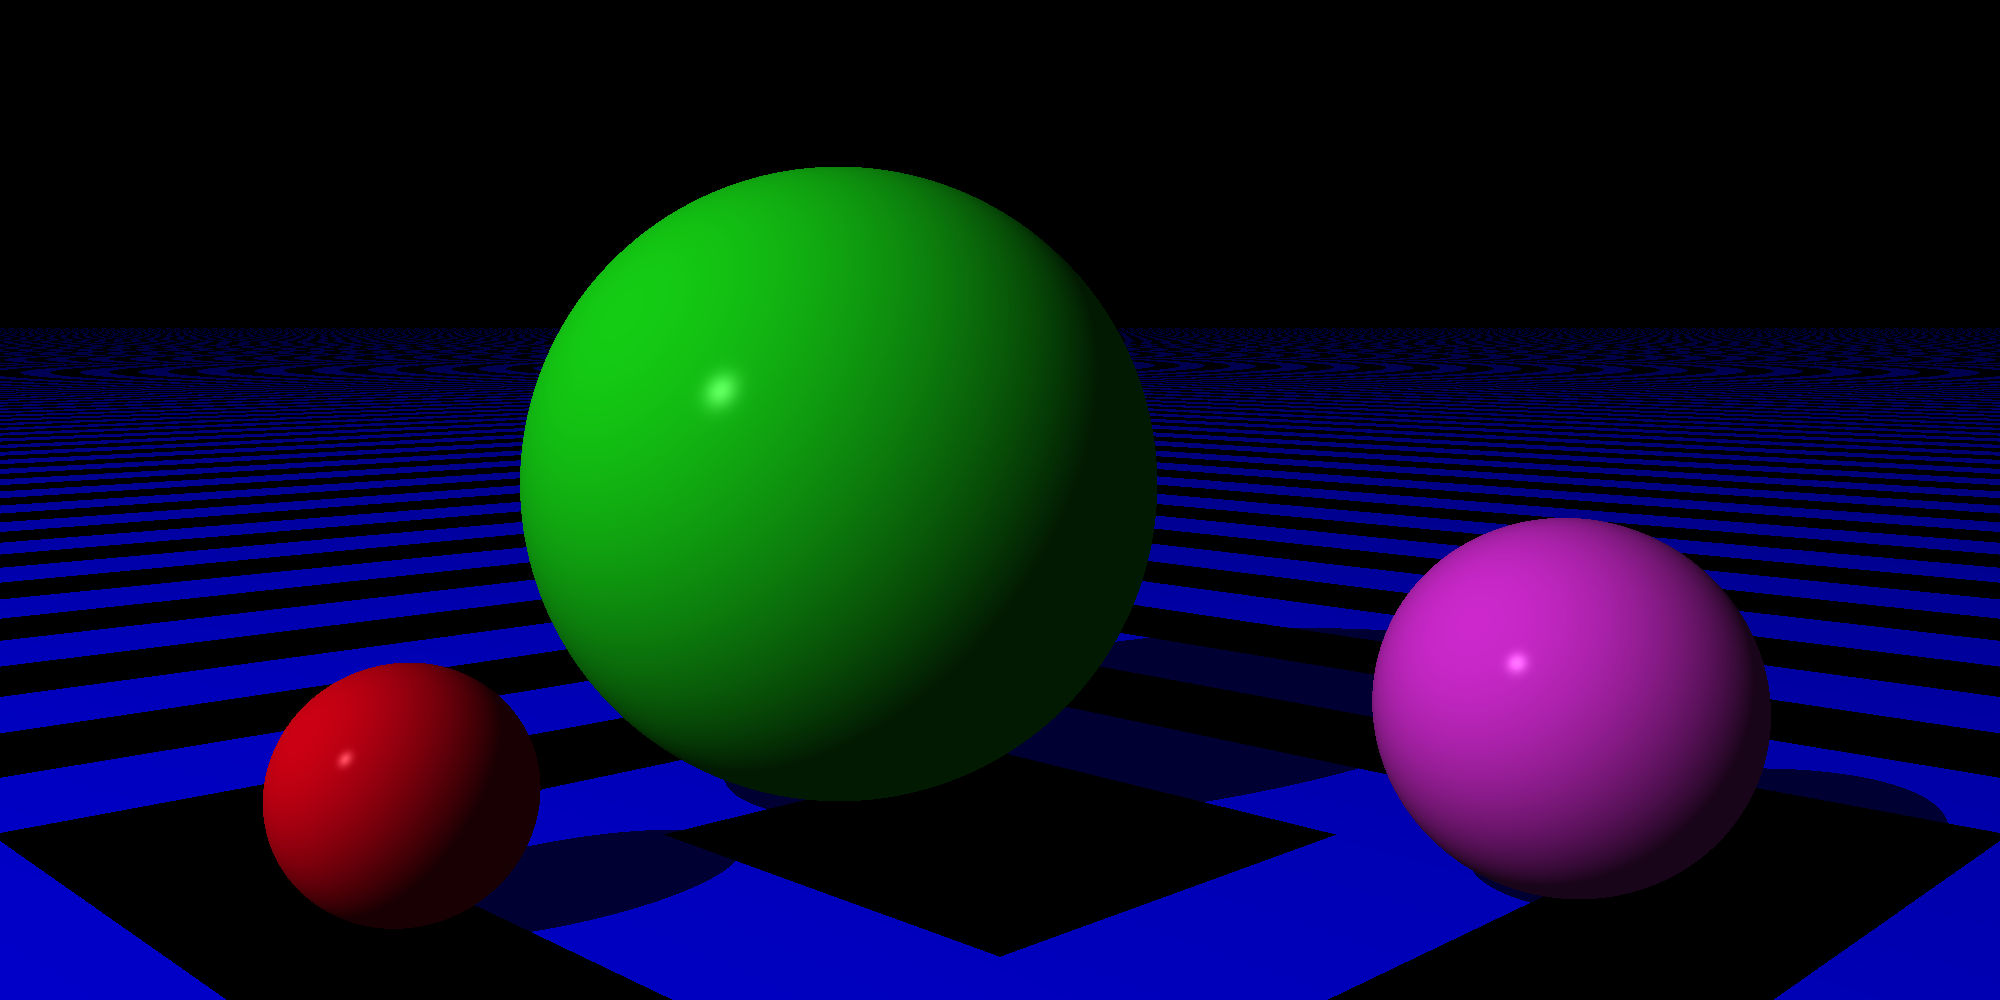
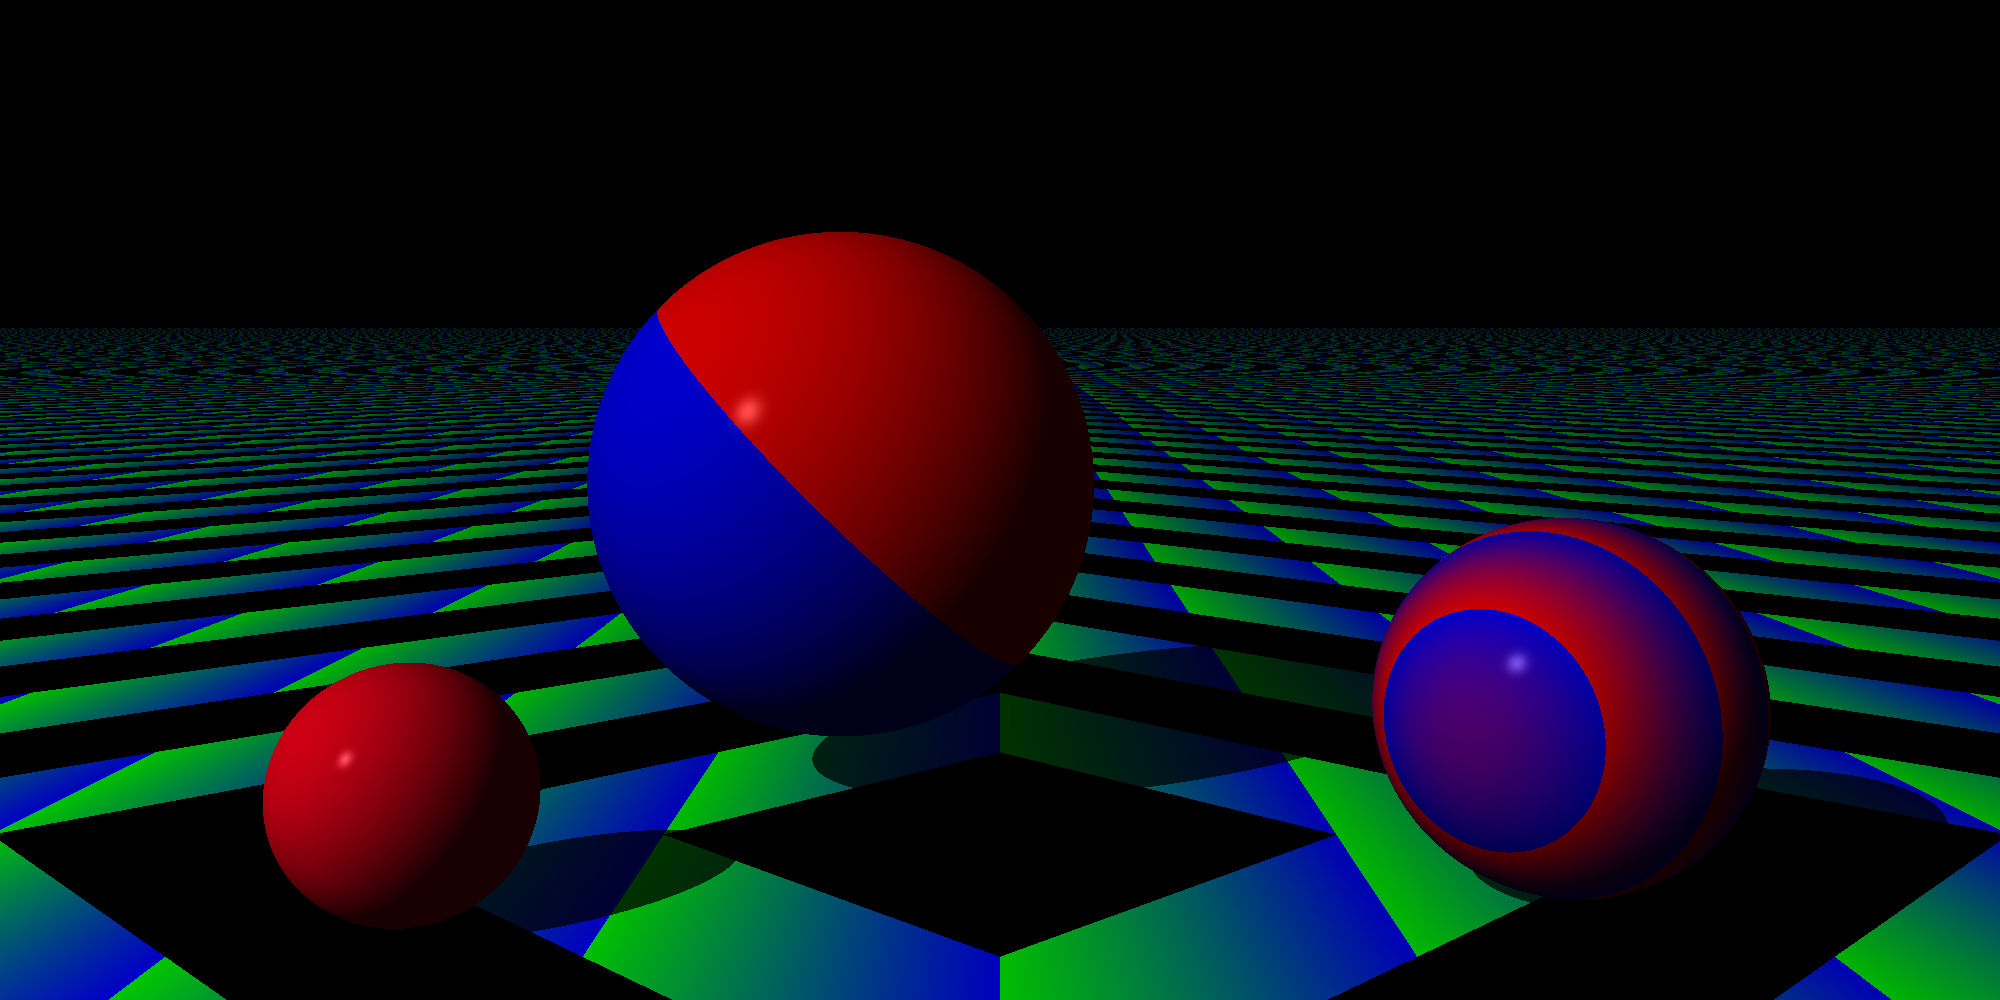
Modify patterns to support nested patterns

diff --git a/pattern_test.go b/pattern_test.go
@@ -7,15 +7,15 @@ import (
 )
 
 func TestCreateStripePattern(t *testing.T) {
-	pattern := NewStripePattern(white, black)
+	pattern := NewStripePattern(NewSolidPattern(white), NewSolidPattern(black))
 
-	assert.Equal(t, white, pattern.a)
-	assert.Equal(t, black, pattern.b)
+	assert.Equal(t, NewSolidPattern(white), pattern.a)
+	assert.Equal(t, NewSolidPattern(black), pattern.b)
 }
 
 func TestStripePatternConstantY(t *testing.T) {
 	object := NewSphere()
-	pattern := NewStripePattern(white, black)
+	pattern := NewStripePattern(NewSolidPattern(white), NewSolidPattern(black))
 
 	assert.Equal(t, white, PatternColor(pattern, object, NewPoint(0, 0, 0)))
 	assert.Equal(t, white, PatternColor(pattern, object, NewPoint(0, 1, 0)))
@@ -24,7 +24,7 @@ func TestStripePatternConstantY(t *testing.T) {
 
 func TestStripePatternConstantZ(t *testing.T) {
 	object := NewSphere()
-	pattern := NewStripePattern(white, black)
+	pattern := NewStripePattern(NewSolidPattern(white), NewSolidPattern(black))
 
 	assert.Equal(t, white, PatternColor(pattern, object, NewPoint(0, 0, 0)))
 	assert.Equal(t, white, PatternColor(pattern, object, NewPoint(0, 0, 1)))
@@ -33,7 +33,7 @@ func TestStripePatternConstantZ(t *testing.T) {
 
 func TestStripePatternAlternatesX(t *testing.T) {
 	object := NewSphere()
-	pattern := NewStripePattern(white, black)
+	pattern := NewStripePattern(NewSolidPattern(white), NewSolidPattern(black))
 
 	assert.Equal(t, white, PatternColor(pattern, object, NewPoint(0, 0, 0)))
 	assert.Equal(t, white, PatternColor(pattern, object, NewPoint(0.9, 0, 0)))
@@ -46,14 +46,14 @@ func TestStripePatternAlternatesX(t *testing.T) {
 func TestStripeWithObjectTransformation(t *testing.T) {
 	object := NewSphere()
 	object.transform = object.transform.Scale(2, 2, 2)
-	pattern := NewStripePattern(white, black)
+	pattern := NewStripePattern(NewSolidPattern(white), NewSolidPattern(black))
 
 	assert.Equal(t, white, PatternColor(pattern, object, NewPoint(1.5, 0, 0)))
 }
 
 func TestStripeWithPatternTransformation(t *testing.T) {
 	object := NewSphere()
-	pattern := NewStripePattern(white, black)
+	pattern := NewStripePattern(NewSolidPattern(white), NewSolidPattern(black))
 	pattern.transform = pattern.transform.Scale(2, 2, 2)
 
 	assert.Equal(t, white, PatternColor(pattern, object, NewPoint(1.5, 0, 0)))
@@ -62,7 +62,7 @@ func TestStripeWithPatternTransformation(t *testing.T) {
 func TestStripeWithObjectAndPatternTransformation(t *testing.T) {
 	object := NewSphere()
 	object.transform = object.transform.Scale(2, 2, 2)
-	pattern := NewStripePattern(white, black)
+	pattern := NewStripePattern(NewSolidPattern(white), NewSolidPattern(black))
 	pattern.transform = pattern.transform.Translate(0.5, 0, 0)
 
 	assert.Equal(t, white, PatternColor(pattern, object, NewPoint(2.5, 0, 0)))
@@ -70,7 +70,7 @@ func TestStripeWithObjectAndPatternTransformation(t *testing.T) {
 
 func TestGradientLinearlyInterpolatesColors(t *testing.T) {
 	object := NewSphere()
-	pattern := NewGradientPattern(white, black)
+	pattern := NewGradientPattern(NewSolidPattern(white), NewSolidPattern(black))
 
 	assert.Equal(t, white, PatternColor(pattern, object, NewPoint(0, 0, 0)))
 	assert.Equal(t, Color{0.75, 0.75, 0.75}, PatternColor(pattern, object, NewPoint(0.25, 0, 0)))
@@ -80,7 +80,7 @@ func TestGradientLinearlyInterpolatesColors(t *testing.T) {
 
 func TestRingExtendsBothXandZ(t *testing.T) {
 	object := NewSphere()
-	pattern := NewRingPattern(white, black)
+	pattern := NewRingPattern(NewSolidPattern(white), NewSolidPattern(black))
 
 	assert.Equal(t, white, PatternColor(pattern, object, NewPoint(0, 0, 0)))
 	assert.Equal(t, black, PatternColor(pattern, object, NewPoint(1, 0, 0)))
@@ -91,7 +91,7 @@ func TestRingExtendsBothXandZ(t *testing.T) {
 
 func TestCheckersShouldRepeatInX(t *testing.T) {
 	object := NewSphere()
-	pattern := NewCheckersPattern(white, black)
+	pattern := NewCheckersPattern(NewSolidPattern(white), NewSolidPattern(black))
 
 	assert.Equal(t, white, PatternColor(pattern, object, NewPoint(0, 0, 0)))
 	assert.Equal(t, white, PatternColor(pattern, object, NewPoint(0.99, 0, 0)))
@@ -100,7 +100,7 @@ func TestCheckersShouldRepeatInX(t *testing.T) {
 
 func TestCheckersShouldRepeatInY(t *testing.T) {
 	object := NewSphere()
-	pattern := NewCheckersPattern(white, black)
+	pattern := NewCheckersPattern(NewSolidPattern(white), NewSolidPattern(black))
 
 	assert.Equal(t, white, PatternColor(pattern, object, NewPoint(0, 0, 0)))
 	assert.Equal(t, white, PatternColor(pattern, object, NewPoint(0, 0.99, 0)))
@@ -109,7 +109,7 @@ func TestCheckersShouldRepeatInY(t *testing.T) {
 
 func TestCheckersShouldRepeatInZ(t *testing.T) {
 	object := NewSphere()
-	pattern := NewCheckersPattern(white, black)
+	pattern := NewCheckersPattern(NewSolidPattern(white), NewSolidPattern(black))
 
 	assert.Equal(t, white, PatternColor(pattern, object, NewPoint(0, 0, 0)))
 	assert.Equal(t, white, PatternColor(pattern, object, NewPoint(0, 0, 0.99)))

diff --git a/pattern.go b/pattern.go
@@ -9,42 +9,57 @@ type Pattern interface {
 }
 
 type PatternImpl struct {
-	a             Color
-	b             Color
 	transform     Matrix
 	cachedInverse Matrix
 }
 
+type SolidPattern struct {
+	c Color
+	PatternImpl
+}
+
 type StripePattern struct {
+	a Pattern
+	b Pattern
 	PatternImpl
 }
 
 type GradientPattern struct {
+	a Pattern
+	b Pattern
 	PatternImpl
 }
 
 type RingPattern struct {
+	a Pattern
+	b Pattern
 	PatternImpl
 }
 
 type CheckersPattern struct {
+	a Pattern
+	b Pattern
 	PatternImpl
 }
 
-func NewStripePattern(a Color, b Color) *StripePattern {
-	return &StripePattern{PatternImpl{a, b, NewIdentityMatrix(), nil}}
+func NewSolidPattern(c Color) *SolidPattern {
+	return &SolidPattern{c, PatternImpl{NewIdentityMatrix(), nil}}
 }
 
-func NewGradientPattern(a Color, b Color) *GradientPattern {
-	return &GradientPattern{PatternImpl{a, b, NewIdentityMatrix(), nil}}
+func NewStripePattern(a Pattern, b Pattern) *StripePattern {
+	return &StripePattern{a, b, PatternImpl{NewIdentityMatrix(), nil}}
 }
 
-func NewRingPattern(a Color, b Color) *RingPattern {
-	return &RingPattern{PatternImpl{a, b, NewIdentityMatrix(), nil}}
+func NewGradientPattern(a Pattern, b Pattern) *GradientPattern {
+	return &GradientPattern{a, b, PatternImpl{NewIdentityMatrix(), nil}}
 }
 
-func NewCheckersPattern(a Color, b Color) *CheckersPattern {
-	return &CheckersPattern{PatternImpl{a, b, NewIdentityMatrix(), nil}}
+func NewRingPattern(a Pattern, b Pattern) *RingPattern {
+	return &RingPattern{a, b, PatternImpl{NewIdentityMatrix(), nil}}
+}
+
+func NewCheckersPattern(a Pattern, b Pattern) *CheckersPattern {
+	return &CheckersPattern{a, b, PatternImpl{NewIdentityMatrix(), nil}}
 }
 
 func PatternColor(pattern Pattern, object Shape, worldPoint Tuple) Color {
@@ -66,33 +81,37 @@ func (pattern *PatternImpl) GetInverse() Matrix {
 	return pattern.cachedInverse
 }
 
+func (pattern *SolidPattern) ColorAt(point Tuple) Color {
+	return pattern.c
+}
+
 func (pattern *StripePattern) ColorAt(point Tuple) Color {
 	if int(math.Floor(point.x))%2 == 0 {
-		return pattern.a
+		return pattern.a.ColorAt(point)
 	} else {
-		return pattern.b
+		return pattern.b.ColorAt(point)
 	}
 }
 
 func (pattern *GradientPattern) ColorAt(point Tuple) Color {
-	distance := pattern.b.Subtract(pattern.a)
+	distance := pattern.b.ColorAt(point).Subtract(pattern.a.ColorAt(point))
 	fraction := point.x - math.Floor(point.x)
 
-	return pattern.a.Add(distance.MultiplyScalar(fraction))
+	return pattern.a.ColorAt(point).Add(distance.MultiplyScalar(fraction))
 }
 
 func (pattern *RingPattern) ColorAt(point Tuple) Color {
 	if int(math.Floor(math.Sqrt(math.Pow(point.x, 2)+math.Pow(point.z, 2))))%2 == 0 {
-		return pattern.a
+		return pattern.a.ColorAt(point)
 	} else {
-		return pattern.b
+		return pattern.b.ColorAt(point)
 	}
 }
 
 func (pattern *CheckersPattern) ColorAt(point Tuple) Color {
 	if int(math.Abs(point.x)+math.Abs(point.y)+math.Abs(point.z))%2 == 0 {
-		return pattern.a
+		return pattern.a.ColorAt(point)
 	} else {
-		return pattern.b
+		return pattern.b.ColorAt(point)
 	}
 }

diff --git a/main.go b/main.go
@@ -31,9 +31,12 @@ func generateScene() {
 	}
 
 	floor := NewPlane()
-	floor.material.color = Color{0, 0, 1}
+	floor.material.color = blue
 	floor.material.ambient = 0.2
-	floor.material.pattern = NewCheckersPattern(black, Color{0, 0, 1})
+	floor.material.pattern = NewCheckersPattern(
+		NewSolidPattern(black), NewGradientPattern(
+			NewSolidPattern(green),
+			NewSolidPattern(blue)))
 
 	leftSphere := NewSphere()
 	leftSphere.transform = leftSphere.transform.
@@ -44,10 +47,17 @@ func generateScene() {
 	leftSphere.material.specular = 0.3
 
 	middleSphere := NewSphere()
-	middleSphere.transform = middleSphere.transform.Translate(-0.5, 1, 0.5)
+	middleSphere.transform = middleSphere.transform.
+		Translate(-0.5, 1, 0.5).
+		Scale(0.8, 0.8, 0.8)
 	middleSphere.material.color = Color{0.1, 1, 0.1}
 	middleSphere.material.diffuse = 0.7
 	middleSphere.material.specular = 0.3
+	middleSpherePattern := NewStripePattern(
+		NewSolidPattern(red), NewSolidPattern(blue))
+	middleSpherePattern.transform = middleSpherePattern.transform.
+		RotateZ(math.Pi / 4)
+	middleSphere.material.pattern = middleSpherePattern
 
 	rightSphere := NewSphere()
 	rightSphere.transform = rightSphere.transform.
@@ -56,6 +66,12 @@ func generateScene() {
 	rightSphere.material.color = Color{1, 0.2, 1}
 	rightSphere.material.diffuse = 0.7
 	rightSphere.material.specular = 0.3
+	rightSpherePattern := NewGradientPattern(
+		NewSolidPattern(red), NewSolidPattern(blue))
+	rightSpherePattern.transform = rightSphere.transform.
+		RotateX(math.Pi / 2).
+		RotateZ(math.Pi / 4)
+	rightSphere.material.pattern = rightSpherePattern
 
 	world := World{}
 	world.light = &PointLight{NewPoint(-10, 10, -10), white}

diff --git a/lighting_test.go b/lighting_test.go
@@ -100,7 +100,7 @@ func TestLightingWithSurfaceInShadow(t *testing.T) {
 }
 
 func TestLightingWithPatternApplied(t *testing.T) {
-	pattern := NewStripePattern(white, black)
+	pattern := NewStripePattern(NewSolidPattern(white), NewSolidPattern(black))
 	material := Material{}
 	material.pattern = pattern
 	material.ambient = 1

diff --git a/color.go b/color.go
@@ -8,6 +8,9 @@ type Color struct {
 
 var black = Color{0, 0, 0}
 var white = Color{1, 1, 1}
+var red = Color{1, 0, 0}
+var green = Color{0, 1, 0}
+var blue = Color{0, 0, 1}
 
 func (color Color) Equals(other Color) bool {
 	return floatEquals(color.red, other.red) &&
